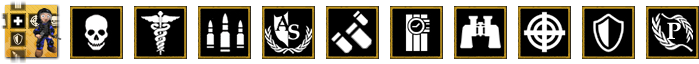
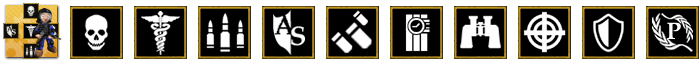
Kein CMC-Munitions-HUD: Munitions-HUD von Hazard reaktiviert. Mehrere Minor Fixes.

Changed region(s): [[0.0, 0.0312, 0.0901, 0.9688], [0.3605, 0.1562, 0.4506, 0.8438]]

diff --git a/ModernCombatFINALTRY.c4d/Libraries.c4d/Modifications.c4d/HazardClonkAp.c4d/Displays.c4d/HeadUpDisplay.c4d/Script.c b/ModernCombatFINALTRY.c4d/Libraries.c4d/Modifications.c4d/HazardClonkAp.c4d/Displays.c4d/HeadUpDisplay.c4d/Script.c
@@ -1,48 +1,81 @@
-
 /*-- HUD --*/
 
 #strict
 
-local alpha,
+local ammoobjs,allAmmo,
+      alpha,
       charge, recharge, ftName,
       ammoID, ammoCount, ammoLoad, masterAmmoCount,
       info;
 
+public func GraphicsID(){return(1HUD);}
+public func ColorTrue(){return(RGB(255,255,0));}
+public func ColorFalse(){return(RGB(255,0,0));}
+public func ColorAmmoID(){return(RGB(255,255,255));}
+public func IdleAlpha(){return(150);}
+
+
 global func GetHUD(object obj, id theID)
 {
   if(!obj)
-    if(!(obj = this()))
-      return;
+   if(!(obj = this()))
+    return;
 
   if(!theID)
-    theID = 1HUD;
+   theID = 1HUD;
 
   var owner = GetOwner(obj);
   if(owner <= -1) return;
 
   var bar = FindObjectOwner(theID,owner);
   if(!bar)
-    bar = CreateObject(theID, 0,0, owner);
+   bar = CreateObject(theID, 0,0, owner);
 
   return bar;
 }
+
+/* Initalisierung */
       
 protected func Initialize()
 {
-  // Einstellungen
+  //Einstellungen
   SetPosition(85, -55);//75, -55
   SetGraphics(0, this(), GraphicsID());
   SetGraphics("Row", this(), GraphicsID(), 1, 1);
   SetVisibility(VIS_None);
-  // Infos
+
+  //Infos
   info = CreateObject(2HUD, 0,0, GetOwner());
   info->SetPosition(168, -23);//150, -55
   
   // Ammobag
-  //InitAmmoBagHUD();
+  InitAmmoBagHUD();
 }
 
-private func InitAmmoBagHUD(){}
+private func InitAmmoBagHUD()
+{
+  //Munitionsanzeige entfernen
+  var def = 0;
+  allAmmo = CreateArray();
+  var arrI = 0;
+  //Munition erfassen
+  for(var i=0; def = GetDefinition(i,C4D_StaticBack); ++i)
+  {
+   if(DefinitionCall(def,"IsAmmo"))
+    allAmmo[arrI++] = def;
+  }
+  ammoobjs = CreateArray();
+
+  //Munitionsobjekte plazieren
+  for(var i=0; i < GetLength(allAmmo); ++i)
+  {
+   ammoobjs[i] = CreateObject(2HUD,0,0,GetOwner());
+   ammoobjs[i]->SetPosition(70,-85-i*28);
+   ammoobjs[i]->SetGraphics(0, 0, allAmmo[i],1,4);
+   ammoobjs[i]->SetObjDrawTransform(750,0,-50000,0,750,-62000,0,1);
+   ammoobjs[i]->SetVisibility(VIS_None);
+  }
+}
 
 protected func Destruction()
 {
@@ -53,39 +86,33 @@ protected func Destruction()
 
 protected func Timer()
 {
-  // Spieler weg?
+  //Spieler weg?
   if(GetOwner() == NO_OWNER || !GetPlayerName(GetOwner())) return(RemoveObject());
-  // Clonk falsch?
+  //Clonk falsch?
   if(!GetCursor(GetOwner()))
   {
-    SetVisibility(VIS_None);
-    SetVisibility(VIS_None,info);
-    return();
+   SetVisibility(VIS_None);
+   SetVisibility(VIS_None,info);
+   return();
   }
   else
   {
-    SetVisibility(VIS_Owner);
-    SetVisibility(VIS_Owner,info);
+   SetVisibility(VIS_Owner);
+   SetVisibility(VIS_Owner,info);
   }
 
-  // Faden
-  /*if(alpha < IdleAlpha()) alpha++;
-  if(alpha > IdleAlpha() && charge != 0) alpha = IdleAlpha();
-  SetClrModulation(RGBa(255,255,255,alpha));
-  SetClrModulation(RGBa(255,255,255,alpha), 0, 1);*/
-
-  // Anzeige
+  //Anzeige
   SetObjDrawTransform(charge, 0, -1000 * (1000-charge)/20,0, 1000, 0, this(), 1);
   
-  // Recharge: roter Balken wandert von links nach rechts
+  //Recharge: Roter Balken wandert von links nach rechts
   if(recharge)
   {
-    SetGraphics("Red", this, GetID(), 2, 2, "Red");
-    SetObjDrawTransform(1000, 0, 50000 - 100 * (1000-recharge),0, 1000, 0, this(), 2);
+   SetGraphics("Red", this, GetID(), 2, 2, "Red");
+   SetObjDrawTransform(1000, 0, 50000 - 100 * (1000-recharge),0, 1000, 0, this(), 2);
   }
   else
   {
-    SetGraphics(0,0,0, 2);
+   SetGraphics(0,0,0, 2);
   }
 }
 
@@ -93,91 +120,132 @@ protected func Timer()
 
 public func Update(object weapon, object ammobag, object who)
 {
-	// Nur den Cursor updaten
-	if(who)
-		if(GetCursor(GetOwner(who)) == who)
-    {
-			UpdateWeapon(weapon);
-    }
+  //Nur den Cursor updaten
+  if(who)
+   if(GetCursor(GetOwner(who)) == who)
+   {
+    UpdateWeapon(weapon);
+   }
+}
+
+public func Update(object weapon, object ammobag, object who)
+{
+  //Nur den Cursor updaten
+  if(who)
+   if(GetCursor(GetOwner(who)) == who)
+   {
+    UpdateWeapon(weapon);
+    UpdateAmmoBag(ammobag, weapon);
+   }
 }
 
 private func UpdateWeapon(object weapon)
 {
-	// Munitionsstand anzeigen
-	if(weapon)
+  //Munitionsstand anzeigen
+  if(weapon)
   {
-    if(weapon->~CustomHUD())
-    {
-      SetVisibility(VIS_Owner);
-      Message("",info);
-      Message("",this);
-      weapon->UpdateHUD(this());
-      ShowSelectProcess(weapon);
-      return;
-    }
-    else if(weapon->~IsWeapon())
-    {
-			// Recharge updaten
-			if(weapon->IsRecharging())
-				recharge = weapon->GetRecharge()*10;
-			else
-				recharge = 0;
-				
-			// charge updaten
-			charge = weapon->GetCharge();
-		
-			// Nachricht ausgeben
-			SetVisibility(VIS_Owner);
-			
-			var ammoid = weapon->GetFMData(FM_AmmoID);
-			var ammoload = weapon->GetFMData(FM_AmmoLoad);
-			var modusname = weapon->GetFMData(FM_Name);
-			var ammocount = weapon->GetAmmo(ammoid);
-      
-      if(weapon->~IsWeapon2() && weapon->GetFMData(FT_Name))
-        Message("@%s|<c %x>%s</c>", this, modusname, RGB(128,128,128), weapon->GetFMData(FT_Name));
-      else
-        Message("@%s", this, modusname);
-		  
-			var color = ColorTrue();
-			if(!ammocount) color = ColorFalse();
-			Message("@<c %x>%d/%d</c>", info, color, ammocount, ammoload);
-      
-      ShowSelectProcess(weapon);
-			
-			return;
-		}
-    else if(weapon->~SelectionTime())
-    {
-      SetVisibility(VIS_Owner);
-      Message("",info);
-      Message("",this);
-      ShowSelectProcess(weapon);
-      return;
-    }
-	}
-	// keine Waffe: ausblenden
-	SetVisibility(VIS_None);
-	Message("",info);
-	Message("",this);
-	charge = 0;
-	recharge = 0;
+   if(weapon->~CustomHUD())
+   {
+    SetVisibility(VIS_Owner);
+    Message("",info);
+    Message("",this);
+    weapon->UpdateHUD(this());
+    ShowSelectProcess(weapon);
+    return;
+   }
+   else if(weapon->~IsWeapon())
+   {
+    //Recharge updaten
+    if(weapon->IsRecharging())
+     recharge = weapon->GetRecharge()*10;
+    else
+     recharge = 0;
+
+    //Charge updaten
+    charge = weapon->GetCharge();
+
+    //Nachricht ausgeben
+    SetVisibility(VIS_Owner);
+
+    var ammoid = weapon->GetFMData(FM_AmmoID);
+    var ammoload = weapon->GetFMData(FM_AmmoLoad);
+    var modusname = weapon->GetFMData(FM_Name);
+    var ammocount = weapon->GetAmmo(ammoid);
+
+    if(weapon->~IsWeapon2() && weapon->GetFMData(FT_Name))
+     Message("@%s|<c %x>%s</c>", this, modusname, RGB(128,128,128), weapon->GetFMData(FT_Name));
+    else
+     Message("@%s", this, modusname);
+
+    var color = ColorTrue();
+    if(!ammocount) color = ColorFalse();
+     Message("@<c %x>%d/%d</c>", info, color, ammocount, ammoload);
+
+    ShowSelectProcess(weapon);
+    return;
+   }
+   else
+   if(weapon->~SelectionTime())
+   {
+    SetVisibility(VIS_Owner);
+    Message("",info);
+    Message("",this);
+    ShowSelectProcess(weapon);
+    return;
+   }
+  }
+  //Keine Waffe: Ausblenden
+  SetVisibility(VIS_None);
+  Message("",info);
+  Message("",this);
+  charge = 0;
+  recharge = 0;
+}
+
+private func UpdateAmmoBag(object ammobag, object weapon)
+{
+  var ammoid = 0;
+  if(weapon)
+   if(weapon->~IsWeapon())
+    ammoid = weapon->GetFMData(FM_AmmoID);
+
+  for(var i=0; i < GetLength(ammoobjs); ++i)
+  {
+   var aobj = ammoobjs[i];
+
+   //Unsichtbar bei "Keine Munition"-Regel
+   if(NoAmmo() || !ammobag)
+   {
+    aobj->SetVisibility(VIS_None);
+    aobj->Message("",aobj);
+    continue;
+   }
+   //Ansonsten Munitionsstand anzeigen
+   aobj->SetVisibility(VIS_Owner);
+
+   var ammo = 0;
+   if(ammobag)
+    ammo = ammobag->GetAmmo(allAmmo[i]);
+
+   var color = "eeeeee";
+    if(!ammo) color = "777777";
+     if(allAmmo[i] == ammoid)
+     {
+      color = "ffff00";
+      if(!ammo) color = "ff0000";
+     }
+   aobj->Message("@<c %s>%d</c>", aobj, color, ammo);
+  }
 }
 
 private func ShowSelectProcess(object item)
 {
   if(GetEffect("SelectItem",item))
   {
-    Recharge(GetEffect("SelectItem",item,0,6),item->~SelectionTime());
+   Recharge(GetEffect("SelectItem",item,0,6),item->~SelectionTime());
   }
 }
 
-private func UpdateAmmoBag()
-{
-	//...
-}
-
-//Altes Zeugs...
 
 public func Charge(int part, int max)
 {
@@ -241,10 +309,3 @@ public func Clear()
   Ammo();
   MasterAmmo(0, -1);
 }
-
-//Modding!
-public func GraphicsID(){return(1HUD);}
-public func ColorTrue(){return(RGB(255,255,0));}
-public func ColorFalse(){return(RGB(255,0,0));}
-public func ColorAmmoID(){return(RGB(255,255,255));}
-public func IdleAlpha(){return(150);}

diff --git a/ModernCombatFINALTRY.c4d/Rules.c4d/LimitedSight.c4d/SightObject.c4d/Script.c b/ModernCombatFINALTRY.c4d/Rules.c4d/LimitedSight.c4d/SightObject.c4d/Script.c
@@ -1,0 +1,3 @@
+/*-- Sichtobjekt --*/
+
+#strict
